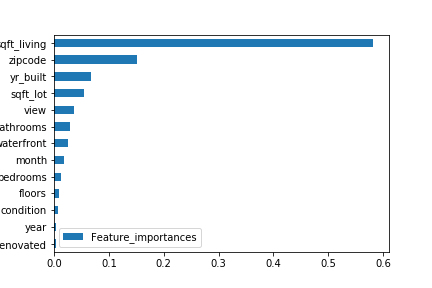
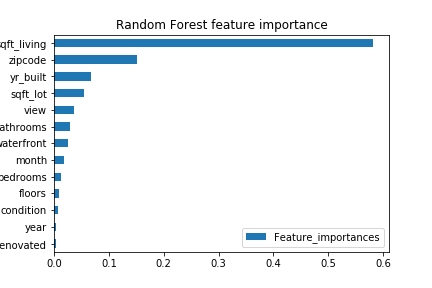
viz

Changed region(s): [[0.5417, 0.7812, 0.9028, 0.875], [0.1204, 0.7812, 0.4815, 0.875], [0.2708, 0.0625, 0.7523, 0.125]]

diff --git a/app.py b/app.py
@@ -1,4 +1,5 @@
 import pandas as pd 
+# import plotly.express as px
 import streamlit as st 
 import numpy as np 
 import matplotlib.pyplot as plt
@@ -8,7 +9,6 @@ import mpl_toolkits
 from datetime import datetime
 import os, time, sys
 from pandas import DataFrame
-import plotly.express as px
 
 from sklearn.ensemble import RandomForestRegressor
 from sklearn.datasets import make_regression
@@ -173,9 +173,14 @@ def main():
             importance_df = DataFrame(importance, columns=['Feature_importances','Feature_names'])
             importance_df.set_index('Feature_names',inplace=True)
             importance_df.sort_values(by = 'Feature_importances', ascending=True, inplace=True)
-            st.markdown("Randon Forest feature importance")
-            fig = px.bar(importance_df, x='Feature_importances')
-            st.plotly_chart(fig)
+            # st.markdown("Randon Forest feature importance")
+            # fig = px.bar(importance_df, x='Feature_importances')
+            # st.plotly_chart(fig)
+            # st.bar_chart(importance_df)
+            importance_df.plot(kind='barh')
+            plt.title('Random Forest feature importance')
+            plt.legend(loc='lower right')
+            st.pyplot()
             st.write('---')
 
         elif(viz == 'Tree- RF Only'): 
